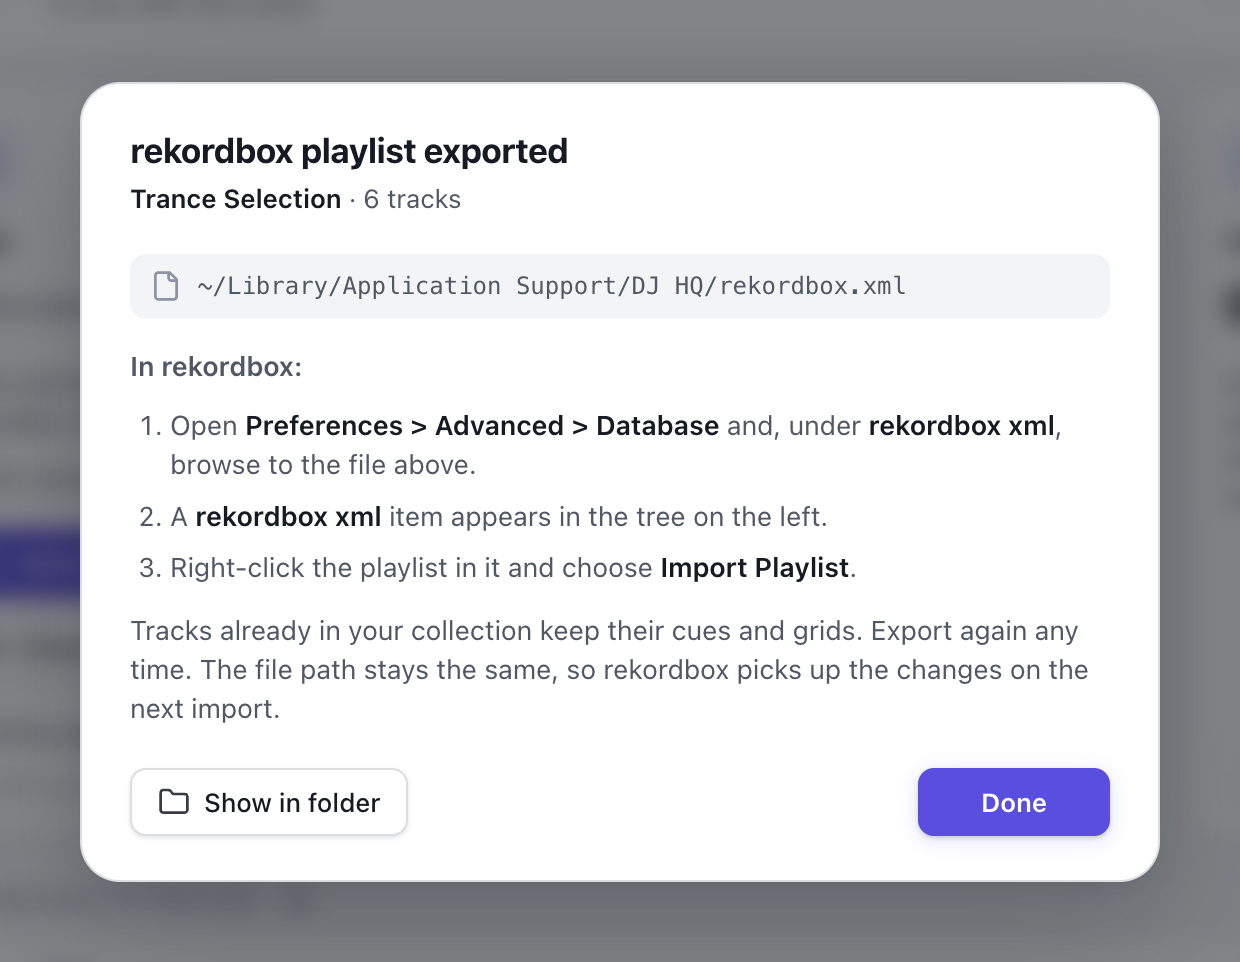
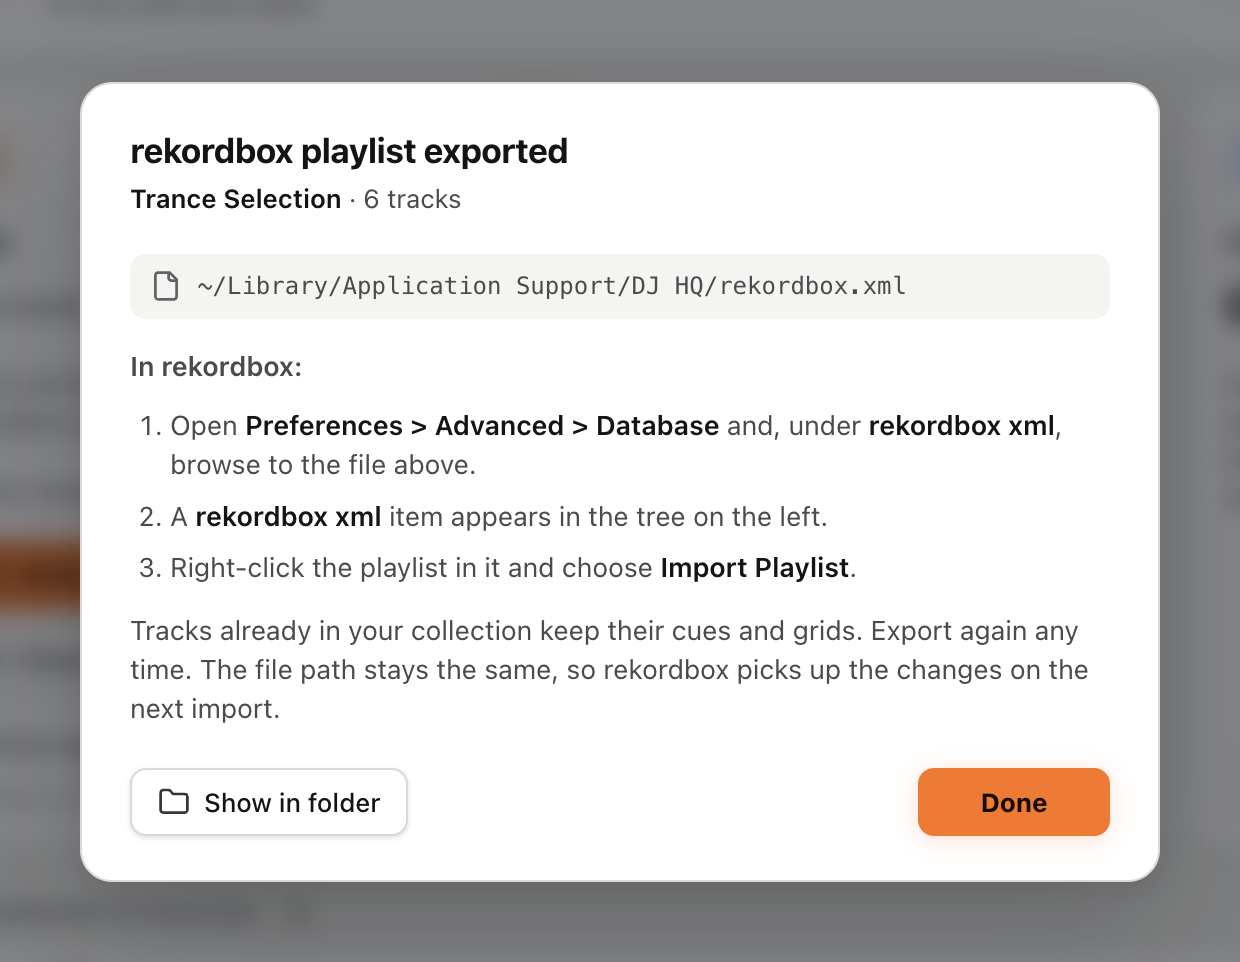
README screenshots in the new look, Waveform and Afterhours included
The screenshot script renders the collection page instead of the old
extras page, shoots Missing in Cue light and dark plus one frame each of
Waveform and Afterhours, uses the solid initials placeholders and the Cue
window background.

diff --git a/scripts/screenshots.js b/scripts/screenshots.js
@@ -55,14 +55,10 @@ const PLAYLIST = "Trance Selection";
 const DAY = 24 * 60 * 60 * 1000;
 const now = Date.now();
 
-/** 80×80 artwork: a two-colour gradient with the track's initials (same look as the tour). */
+/** 80×80 artwork: a solid, slightly muted colour with the track's initials (same look as the tour). */
 function art(initials, hue) {
   const svg = `<svg xmlns="http://www.w3.org/2000/svg" viewBox="0 0 80 80">
-    <defs><linearGradient id="g" x1="0" y1="0" x2="1" y2="1">
-      <stop offset="0" stop-color="hsl(${hue},72%,58%)"/><stop offset="1" stop-color="hsl(${(hue + 48) % 360},70%,32%)"/>
-    </linearGradient></defs>
-    <rect width="80" height="80" fill="url(#g)"/>
-    <circle cx="62" cy="18" r="22" fill="rgba(255,255,255,.12)"/>
+    <rect width="80" height="80" fill="hsl(${hue},38%,40%)"/>
     <text x="40" y="49" font-family="Helvetica Neue,Helvetica,Arial,sans-serif" font-size="26" font-weight="700"
           fill="rgba(255,255,255,.92)" text-anchor="middle" letter-spacing="1">${initials}</text>
   </svg>`;
@@ -216,7 +212,12 @@ app.whenReady().then(async () => {
   await esc();
   await js(`setTheme('dark');`);
   await shot("missing-dark");
-  await js(`setTheme('light');`);
+  // the other two palettes, one shot each (the README shows Cue)
+  await js(`setPalette('wave');`);
+  await shot("missing-waveform");
+  await js(`setPalette('uv');`);
+  await shot("missing-afterhours");
+  await js(`setPalette('cue'); setTheme('light');`);
 
   await js(`openWorkThrough();`);
   await sleep(900);
@@ -241,7 +242,8 @@ app.whenReady().then(async () => {
   await sleep(2500);   // the inbox scan probes the downloads (zip entries included)
   await shot("downloads");
 
-  await js(`go('extras');`);
+  await js(`go('collection');`);
+  await sleep(1200);   // the collection view loads on show
   await shot("not-in-playlist");
   // the find dialog, with prepared SoundCloud results instead of a live search
   await js(`
@@ -251,7 +253,7 @@ app.whenReady().then(async () => {
       { id: 900202, url: 'https://soundcloud.com/live-jams/jam-3', title: 'Jam 3', user: 'Live Jams', dur: 455, score: 0.62, name: 0.55, dur_diff: -37, in_playlist: null },
       { id: 900203, url: 'https://soundcloud.com/radio-u/live-jam', title: 'Live Jam (Radio Mix)', user: 'Radio U', dur: 221, score: 0.51, name: 0.51, dur_diff: -271, in_playlist: null },
     ] };
-    openFind(DATA.extras.findIndex(f => !f.found));`);
+    openFind(COLL.files.findIndex(f => f.unmatched && !f.found));`);
   await sleep(600);
   await shot("find-dialog", await box(".dialog", 40));
   await esc();
